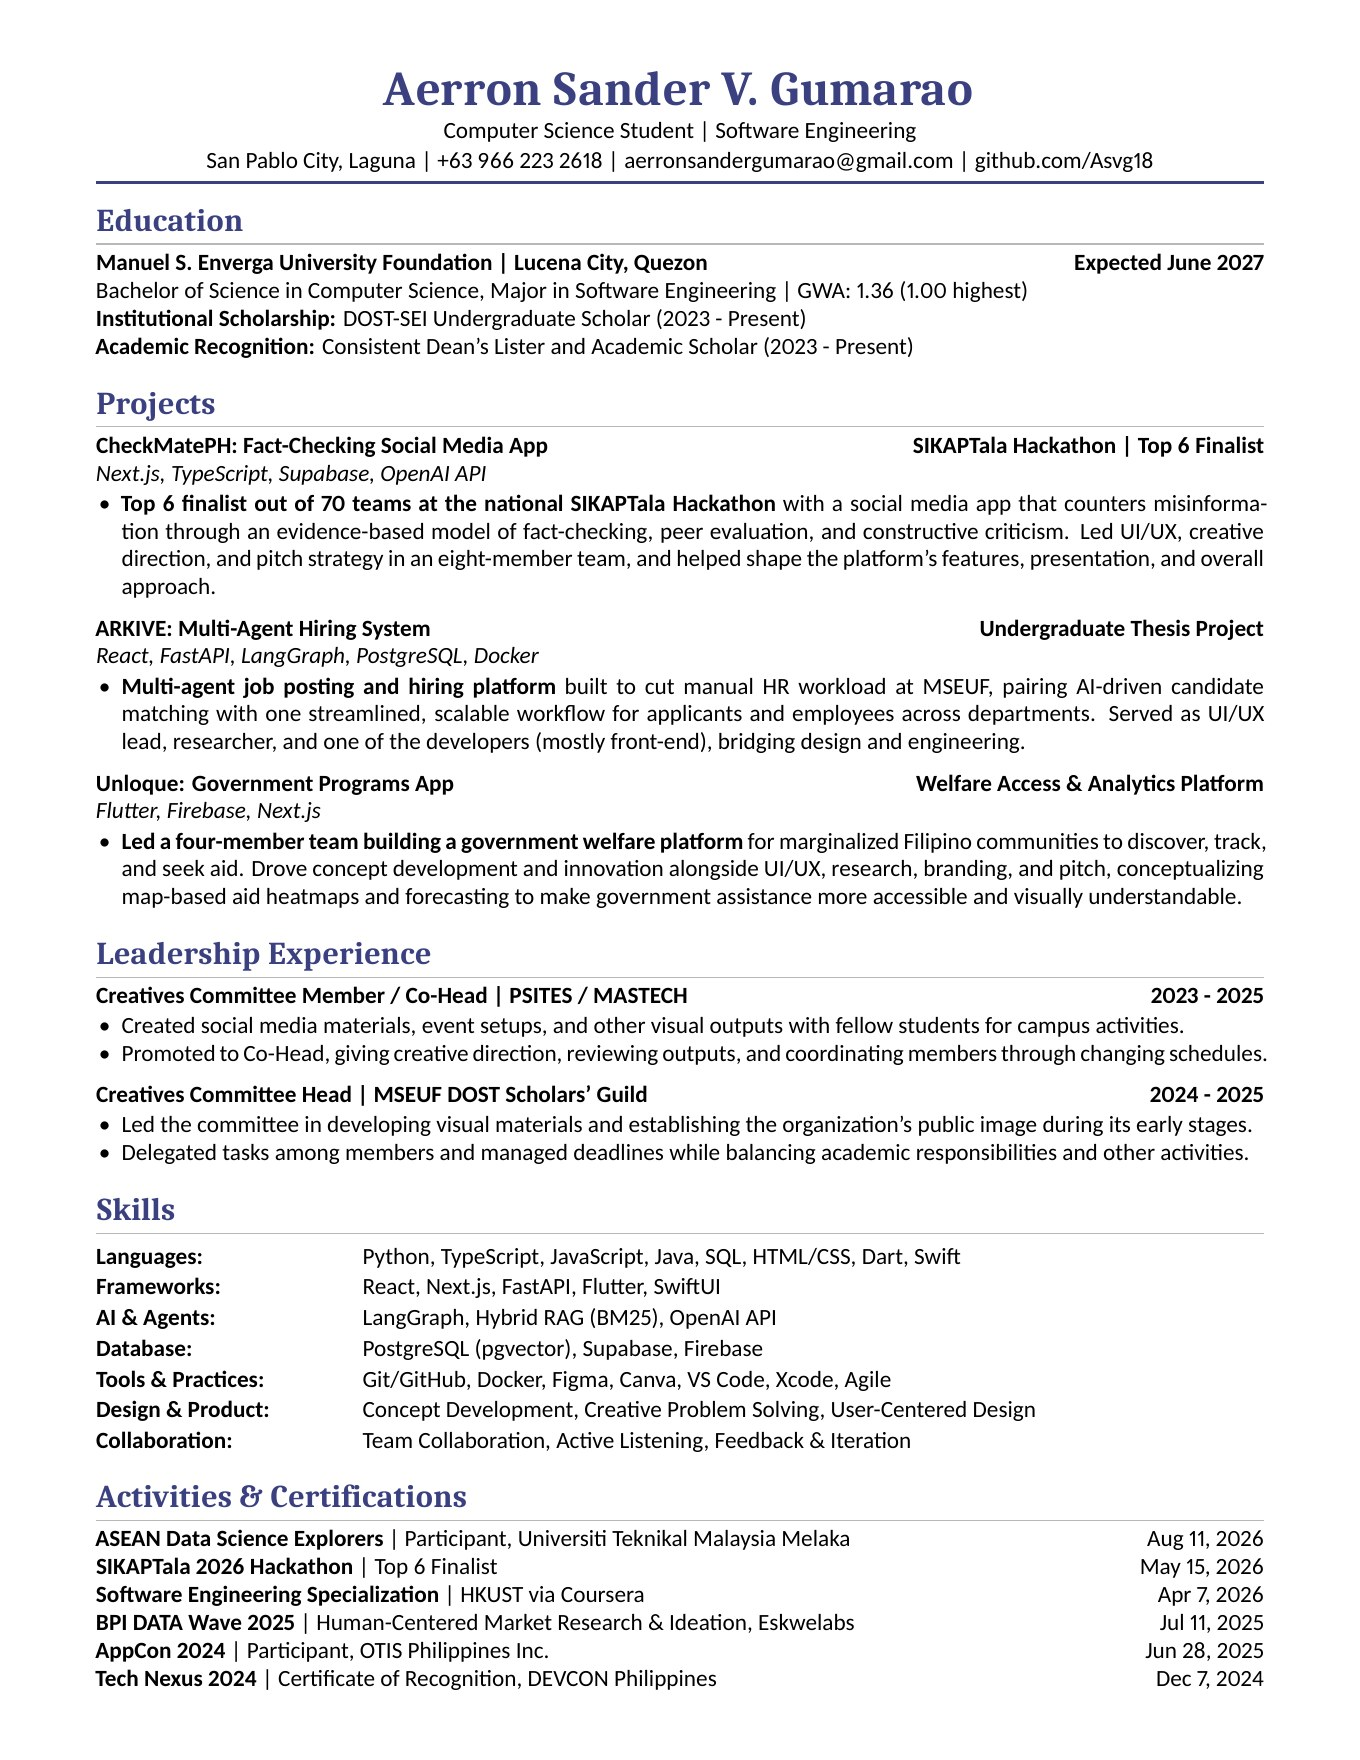
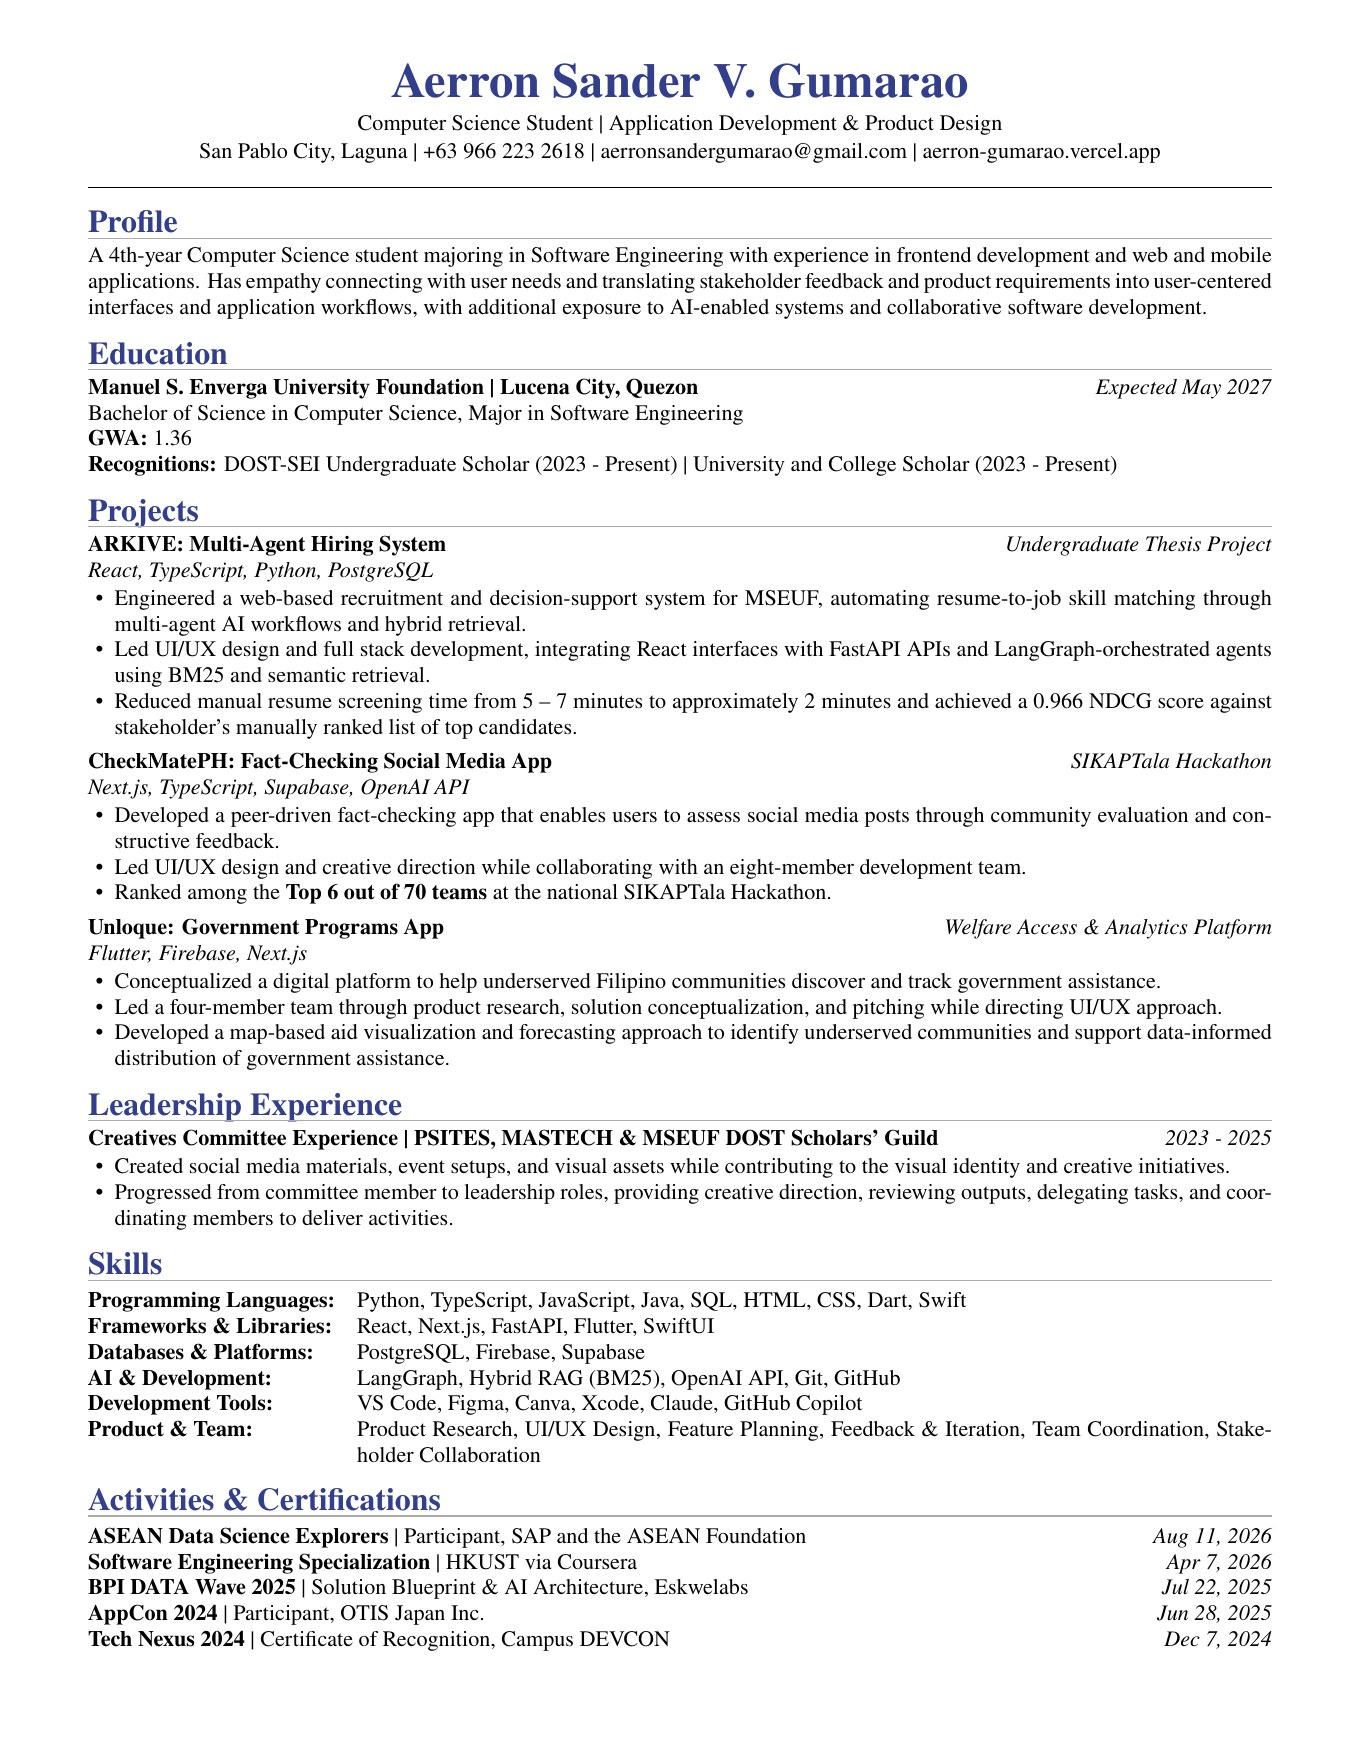
Update the resume to the latest version
Swaps in the new one-page resume (profile summary, ARKIVE results,
merged leadership entry, refreshed skills and certifications) under the
same filename, with a re-rendered preview. The Inspect panel and the
About education card now show the May 2027 graduation, and the focus
matches the new application development and product design headline.

Changed region(s): [[0.0618, 0.0312, 0.9265, 0.9688], [0.8338, 0.8438, 0.9265, 0.9688], [0.5559, 0.9062, 0.6176, 0.9375]]

diff --git a/index.html b/index.html
@@ -294,7 +294,7 @@
             <h3 class="frame-name" id="t-edu">Education</h3>
             <div class="card">
               <h4 class="edu-school rv" style="--o:.2s">Manuel S. Enverga University Foundation</h4>
-              <p class="edu-degree rv" style="--o:.3s">BS Computer Science, major in Software Engineering • Expected June&nbsp;2027</p>
+              <p class="edu-degree rv" style="--o:.3s">BS Computer Science, major in Software Engineering • Expected May&nbsp;2027</p>
               <p class="gwa rv" style="--o:.38s"><b class="gwa-num" data-count="1.36" aria-hidden="true">1.36</b><span class="sr-only">1.36</span><span class="gwa-cap">GWA<br>1.00 highest</span></p>
               <ul class="tags tags-badge" aria-label="Honors">
                 <li style="--c:#3299FF;--w:154">DOST-SEI Scholar</li>
@@ -608,9 +608,9 @@
                 <dl class="props">
                   <dt>Name</dt><dd>Aerron Sander V. Gumarao</dd>
                   <dt>Role</dt><dd>CS student, Software Engineering</dd>
-                  <dt>Focus</dt><dd>UI/UX · Research · Front-end</dd>
+                  <dt>Focus</dt><dd>App dev · Product design</dd>
                   <dt>Based in</dt><dd>San Pablo City, Laguna</dd>
-                  <dt>Graduating</dt><dd>June 2027</dd>
+                  <dt>Graduating</dt><dd>May 2027</dd>
                   <dt>GWA</dt><dd>1.36</dd>
                 </dl>
               </section>
